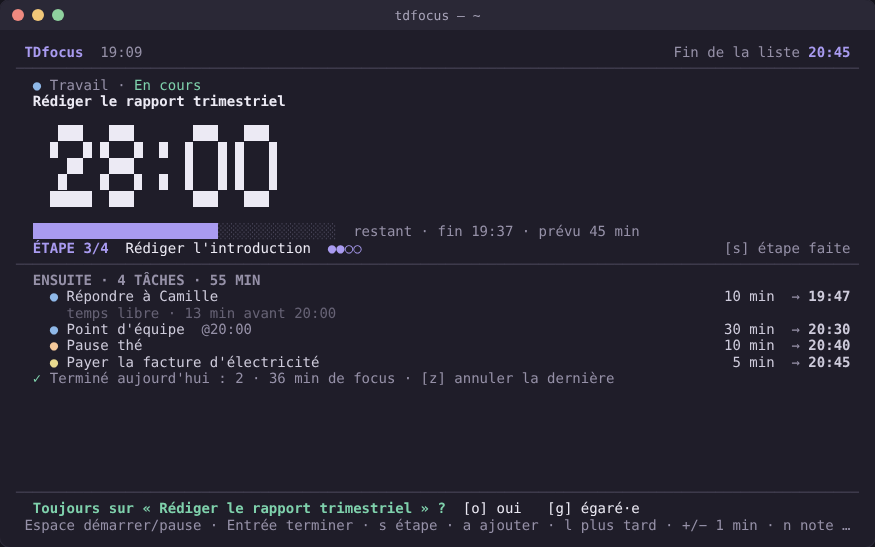
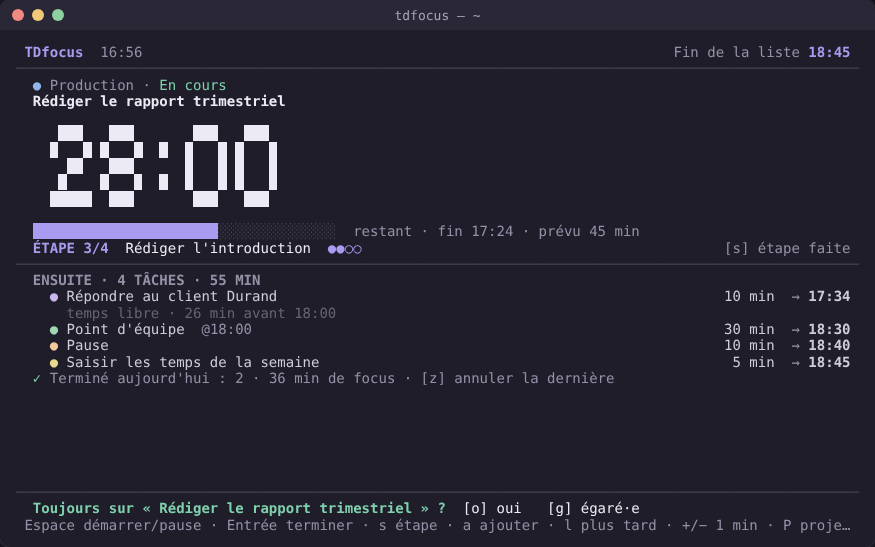
README et capture Linux : routines modifiables, contenu professionnel
Claude-Session: https://claude.ai/code/session_01BGnFSWG7RGCEaobRVJ8dYs

diff --git a/README.md b/README.md
@@ -56,6 +56,11 @@ clignote** à l'ouverture de session ni au clic sur un raccourci. Si sa compilat
 bloquée (stratégie d'entreprise), l'installateur revient à un lancement direct de
 PowerShell.
 
+Si TDfocus est lancé depuis une fenêtre PowerShell (`TDfocus.cmd`, ancien raccourci,
+ancienne clé de démarrage, Windows Terminal), il passe aussitôt la main à `TDfocus.exe`
+et **cette fenêtre se ferme d'elle-même**. Le lanceur est créé au besoin à côté de
+l'application, toujours sans droits administrateur.
+
 - **Lancer sans installer** : `TDfocus.cmd`.
 - **Désinstaller** : `Uninstall.cmd` (ajouter `-RemoveData` pour effacer aussi les données).
 - **Prérequis** : Windows 10 ou 11 avec Windows PowerShell 5.1, déjà inclus. Rien à
@@ -108,7 +113,8 @@ Il suffit d'écrire, puis de valider avec Entrée :
 | `Visio client à 9h30 45m` | 45 min, créneau figé à 09:30 |
 
 Sous le champ se trouvent les **pastilles de durée** (5, 15, 25, 45, 60 min), les
-**catégories** (émoji et couleur douce, sans sous-dossiers) et un champ **heure fixe**.
+**catégories** professionnelles (Production, Réunions, E-mails, Admin, Veille, Pause, avec
+émoji et couleur douce, sans sous-dossiers) et un champ **heure fixe**.
 Quand l'historique est suffisant, TDfocus propose une durée ajustée, par exemple :
 *« d'après ton historique, cela prend plutôt ~32 min (×1,3) »*.
 
@@ -218,7 +224,7 @@ Pourquoi ces choix :
 | Bouton | Contenu |
 |---|---|
 | 🚩 Projets et quotidien | Projets au long cours (pas, blocs, note de reprise, échéance, 3 en cours au plus) et actions récurrentes ajoutées toutes seules |
-| 📋 Routines | Routine du matin, sprint de deep work, closing de fin de journée, ou toute liste enregistrée en un clic |
+| 📋 Routines | Routine du matin, sprint de deep work, routine de fin de journée, ou toute liste enregistrée, chargées en un clic. **Toutes modifiables** (crayon), y compris celles d'origine : nom, tâches, durées, sous-étapes, ordre. « Rétablir l'original » à tout moment |
 | 📝 Bloc-notes | « Parking à idées » : noter une pensée parasite sans quitter la tâche, puis en faire une tâche plus tard. Chaque tâche a aussi sa propre note |
 | 📊 Estimé vs réel | Graphique des 7 derniers jours, facteur d'estimation médian, détail par catégorie. Aucun score négatif, aucune série à perdre |
 | ⇩ Importer | Google Agenda / Outlook (adresse iCal secrète ou fichier `.ics`), Todoist (jeton d'API), Notion (intégration), texte collé (listes Markdown, copier-coller Notion…) |
@@ -264,10 +270,11 @@ terminal.
 | z | Annuler la dernière action |
 | o / g | Pendant un point de contrôle : oui / je me suis égaré·e |
 | n / N | Note rapide / bloc-notes |
-| P | Projets (Tab : quotidien). Entrée ajoute un bloc, `a` crée un projet (« nom ; pourquoi ; échéance »), `s` ajoute un pas, `f` coche le prochain, `j` note où tu en es, `p` met en attente |
+| P | Projets (Tab : quotidien). Entrée ajoute un bloc, `a` crée un projet (« nom ; pourquoi ; échéance »), `s` ajoute un pas, `f` coche le prochain, `j` note où tu en es, `p` met en attente. Dans le quotidien, `e` modifie une action |
 | b / B | Rappel du projet qui attend : ajouter un bloc aujourd'hui / pas aujourd'hui |
 | j | Après un bloc projet : noter où tu t'arrêtes |
-| r / t / o / ? | Routines / statistiques / réglages / aide |
+| r | Routines : Entrée ou 1-9 pour charger, `e` pour modifier (ajouter, modifier, retirer, réordonner les tâches, renommer, `s` pour enregistrer), `x` supprimer, `R` rétablir l'original |
+| t / o / ? | Statistiques / réglages / aide |
 | q | Quitter (le minuteur continue de compter) |
 
 ---
